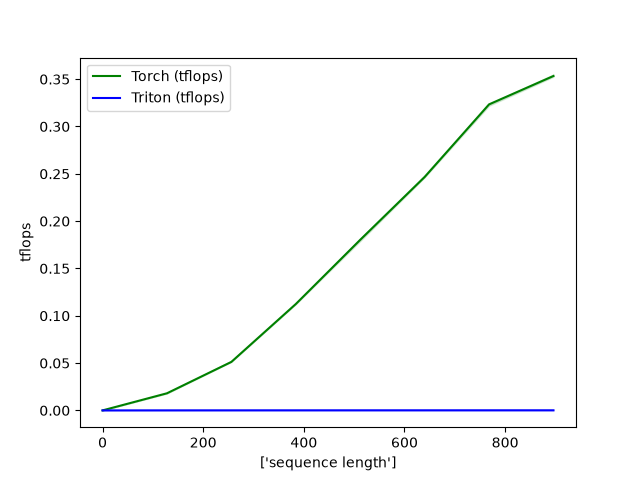
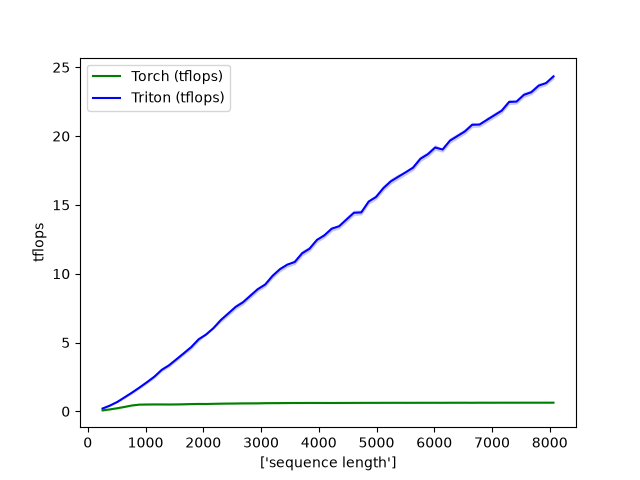
improved performance

diff --git a/triton_testing/results.html b/triton_testing/results.html
@@ -1,2 +1,3 @@
 <html><body>
+<image src="flash_attn_perf.png"/>
 </body></html>

diff --git a/triton_testing/flash_attention.py b/triton_testing/flash_attention.py
@@ -1,7 +1,5 @@
 import torch
 import os
-
-os.environ["TRITON_INTERPRET"] = "1"
 import triton
 import triton.language as tl
 import numpy as np
@@ -334,7 +332,7 @@ def _flash_attn_forward(Q, K, V):
     O = torch.empty_like(Q)
     L = torch.empty(N, device=DEVICE, dtype=torch.float32)
 
-    grid = lambda meta: (tl.cdiv(N, meta["BLOCK_SIZE_ROW"]),)
+    grid = lambda meta: (triton.cdiv(N, meta["BLOCK_SIZE_ROW"]),)
 
 
     _flash_attn_forward_kernel[grid](
@@ -405,7 +403,7 @@ def main():
 @triton.testing.perf_report(
     triton.testing.Benchmark(
         x_names=["N"],
-        x_vals=[128*i for i in range(2, 32)],
+        x_vals=[128*i for i in range(2, 64)],
         line_arg="provider",
         line_vals=["torch", "triton"],
         line_names=["Torch", "Triton"],
@@ -417,9 +415,9 @@ def main():
     )
 )
 def benchmark(N: int, d: int, provider: str) -> float | tuple[float, ...]:
-    Q = torch.randn(N, d, device=DEVICE, dtype=torch.bfloat16)
-    K = torch.randn(N, d, device=DEVICE, dtype=torch.bfloat16)
-    V = torch.randn(N, d, device=DEVICE, dtype=torch.bfloat16)
+    Q = torch.randn(N, d, device=DEVICE, dtype=torch.bfloat16, requires_grad=False)
+    K = torch.randn(N, d, device=DEVICE, dtype=torch.bfloat16, requires_grad=False)
+    V = torch.randn(N, d, device=DEVICE, dtype=torch.bfloat16, requires_grad=False)
 
     quantiles = [0.5, 0.2, 0.8]
 
